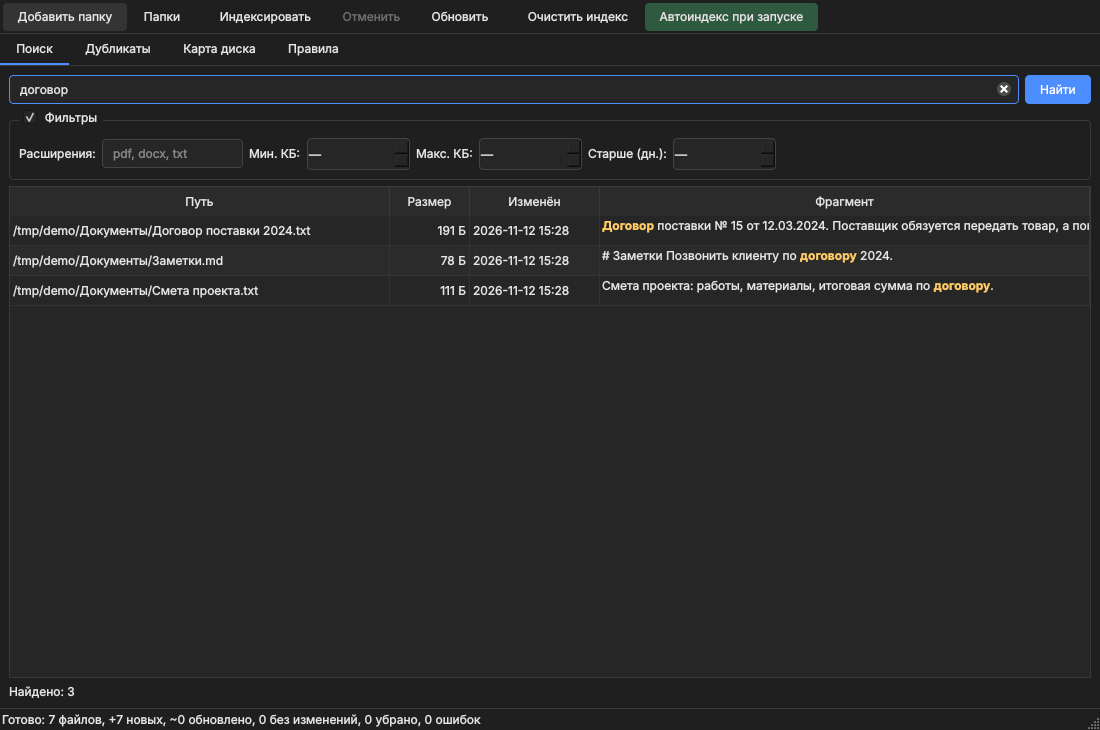
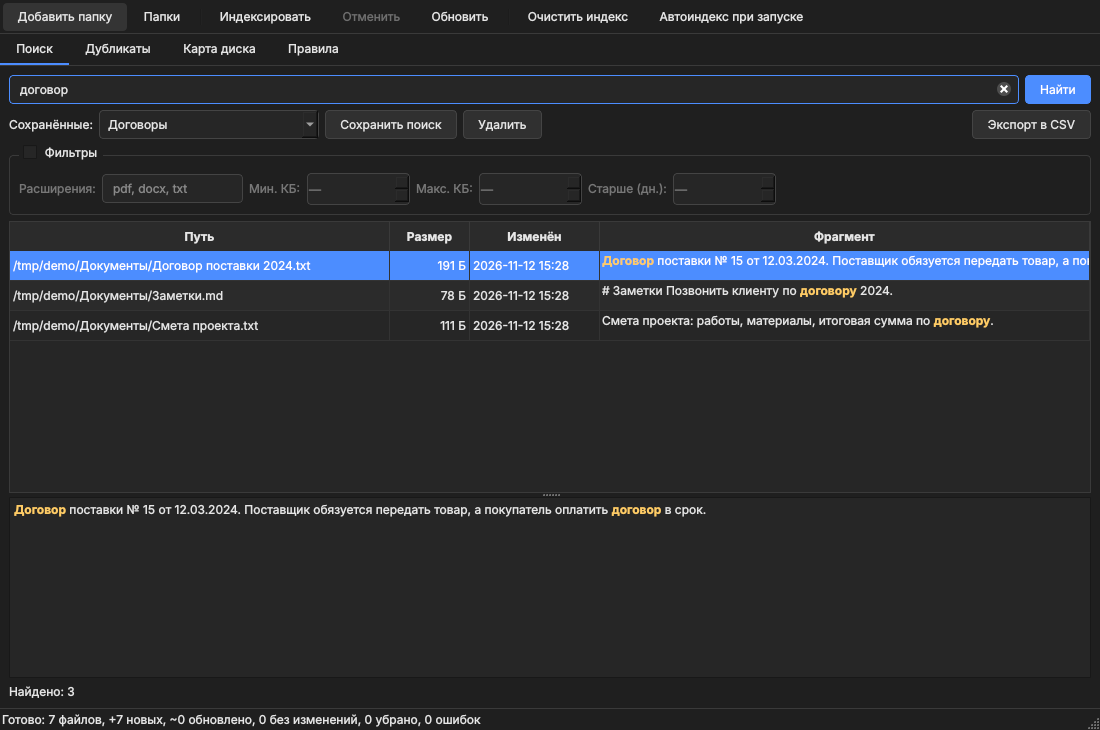
Предпросмотр, сохранённые поиски, экспорт в CSV

diff --git a/filepilot/ui/search_tab.py b/filepilot/ui/search_tab.py
@@ -7,13 +7,14 @@ from pathlib import Path
 from PySide6.QtCore import QRectF, Qt, QTimer
 from PySide6.QtGui import QAbstractTextDocumentLayout, QGuiApplication, QTextDocument
 from PySide6.QtWidgets import (
-    QAbstractItemView, QApplication, QCheckBox, QGroupBox, QHBoxLayout, QHeaderView, QLabel, QLineEdit, QMenu,
+    QAbstractItemView, QApplication, QCheckBox, QComboBox, QFileDialog, QGroupBox, QInputDialog, QMessageBox, QSplitter, QTextBrowser, QHBoxLayout, QHeaderView, QLabel, QLineEdit, QMenu,
     QPushButton, QSpinBox, QStyle, QStyledItemDelegate, QStyleOptionViewItem, QTableWidget, QTableWidgetItem,
     QVBoxLayout, QWidget,
 )
 
 from ..config import format_time, human_size
-from ..search import HL_END, HL_START, Filters, parse_exts, search
+from ..search import HL_END, HL_START, Filters, export_csv, get_content, mark_matches, parse_exts, search
+from ..settings import save_settings
 from .theme import HIGHLIGHT, open_path, reveal_in_folder
 
 
@@ -22,6 +23,15 @@ def snippet_to_html(text: str, color: str) -> str:
     safe = html.escape(text or "", quote=False).replace("\n", " ")
     safe = safe.replace(HL_START, f'<b style="color:{HIGHLIGHT}">').replace(HL_END, "</b>")
     return f'<span style="color:{color}">{safe}</span>'
+
+
+def preview_to_html(text: str, query: str) -> tuple[str, int]:
+    """Полный текст файла с подсветкой. Всё экранируется, подсветка — только по нашим маркерам."""
+    marked, n = mark_matches(text, query)
+    safe = html.escape(marked, quote=False)
+    safe = safe.replace(HL_START, f'<a name="m"></a><b style="color:{HIGHLIGHT}">', 1) if n else safe
+    safe = safe.replace(HL_START, f'<b style="color:{HIGHLIGHT}">').replace(HL_END, "</b>")
+    return f'<div style="white-space:pre-wrap">{safe}</div>', n
 
 
 class SnippetDelegate(QStyledItemDelegate):
@@ -61,6 +71,20 @@ class SearchTab(QWidget):
         row.addWidget(self.btn)
         lay.addLayout(row)
 
+        saved = QHBoxLayout()
+        self.saved = QComboBox()
+        self.saved.setMinimumWidth(220)
+        self.btn_save = QPushButton("Сохранить поиск")
+        self.btn_del = QPushButton("Удалить")
+        self.btn_csv = QPushButton("Экспорт в CSV")
+        saved.addWidget(QLabel("Сохранённые:"))
+        saved.addWidget(self.saved)
+        saved.addWidget(self.btn_save)
+        saved.addWidget(self.btn_del)
+        saved.addStretch(1)
+        saved.addWidget(self.btn_csv)
+        lay.addLayout(saved)
+
         self.filters_box = QGroupBox("Фильтры")
         self.filters_box.setCheckable(True)
         self.filters_box.setChecked(settings.filters_enabled)
@@ -91,7 +115,16 @@ class SearchTab(QWidget):
         self.table.setColumnWidth(1, 80)
         self.table.setColumnWidth(2, 130)
         self.table.setContextMenuPolicy(Qt.ContextMenuPolicy.CustomContextMenu)
-        lay.addWidget(self.table, 1)
+        self.preview = QTextBrowser()
+        self.preview.setOpenLinks(False)
+        self.preview.setPlaceholderText("Выберите файл в списке, чтобы увидеть его текст из индекса.")
+        split = QSplitter(Qt.Orientation.Vertical)
+        split.addWidget(self.table)
+        split.addWidget(self.preview)
+        split.setStretchFactor(0, 3)
+        split.setStretchFactor(1, 2)
+        lay.addWidget(split, 1)
+        self._results: list[dict] = []
         self.info = QLabel("Добавьте папки и нажмите «Индексировать», затем введите запрос.")
         lay.addWidget(self.info)
 
@@ -107,6 +140,12 @@ class SearchTab(QWidget):
         self.filters_box.toggled.connect(self._on_filters_toggled)
         self.table.doubleClicked.connect(lambda *_: self.open_selected())
         self.table.customContextMenuRequested.connect(self._menu)
+        self.table.itemSelectionChanged.connect(self.update_preview)
+        self.btn_save.clicked.connect(self.save_current)
+        self.btn_del.clicked.connect(self.delete_saved)
+        self.btn_csv.clicked.connect(self.export_results)
+        self.saved.activated.connect(self.load_saved)
+        self.refresh_saved()
 
     @staticmethod
     def _spin(special: str) -> QSpinBox:
@@ -129,6 +168,8 @@ class SearchTab(QWidget):
     def run_search(self) -> None:
         self._timer.stop()
         res = search(self.query.text(), self.current_filters())
+        self._results = res
+        self.preview.clear()
         self.table.setRowCount(len(res))
         for r, item in enumerate(res):
             path_item = QTableWidgetItem(item["path"])
@@ -164,3 +205,78 @@ class SearchTab(QWidget):
         m.addAction("Показать в папке", lambda: reveal_in_folder(p))
         m.addAction("Копировать путь", lambda: QGuiApplication.clipboard().setText(p))
         m.exec(self.table.viewport().mapToGlobal(pos))
+
+    # --- предпросмотр -------------------------------------------------------
+    def update_preview(self) -> None:
+        p = self.selected_path()
+        if not p:
+            self.preview.clear()
+            return
+        text = get_content(p)
+        if text is None:
+            self.preview.setPlainText("Файла нет в индексе.")
+        elif not text.strip():
+            self.preview.setPlainText("Для этого файла нет текста (картинка, архив, пустой файл и т. п.).")
+        else:
+            body, n = preview_to_html(text, self.query.text())
+            self.preview.setHtml(body)
+            if n:
+                self.preview.scrollToAnchor("m")
+
+    # --- сохранённые поиски -------------------------------------------------
+    def refresh_saved(self, select: str | None = None) -> None:
+        self.saved.blockSignals(True)
+        self.saved.clear()
+        self.saved.addItem("— выбрать —", None)
+        for e in self.settings.saved_searches:
+            self.saved.addItem(e["name"], e["name"])
+        if select:
+            self.saved.setCurrentIndex(max(0, self.saved.findData(select)))
+        self.saved.blockSignals(False)
+
+    def save_current(self) -> None:
+        q = self.query.text().strip()
+        if not q and not self.current_filters().active():
+            self.info.setText("Нечего сохранять: введите запрос или задайте фильтры.")
+            return
+        name, ok = QInputDialog.getText(self, "Сохранить поиск", "Название:", text=q[:40])
+        name = name.strip()
+        if not ok or not name:
+            return
+        self.settings.save_search({"name": name, "query": q, "exts": self.ext.text(), "min_kb": self.min_kb.value(),
+                                   "max_kb": self.max_kb.value(), "older": self.older.value(),
+                                   "filters": self.filters_box.isChecked()})
+        save_settings(self.settings)
+        self.refresh_saved(name)
+
+    def load_saved(self, _idx: int = 0) -> None:
+        name = self.saved.currentData()
+        entry = next((e for e in self.settings.saved_searches if e.get("name") == name), None)
+        if not entry:
+            return
+        self.ext.setText(str(entry.get("exts", "")))
+        self.min_kb.setValue(int(entry.get("min_kb", 0) or 0))
+        self.max_kb.setValue(int(entry.get("max_kb", 0) or 0))
+        self.older.setValue(int(entry.get("older", 0) or 0))
+        self.filters_box.setChecked(bool(entry.get("filters", False)))
+        self.query.setText(str(entry.get("query", "")))
+        self.run_search()
+
+    def delete_saved(self) -> None:
+        name = self.saved.currentData()
+        if not name:
+            return
+        if QMessageBox.question(self, "Удалить поиск", f"Удалить сохранённый поиск «{name}»?") == QMessageBox.StandardButton.Yes:
+            self.settings.delete_search(name)
+            save_settings(self.settings)
+            self.refresh_saved()
+
+    # --- экспорт ------------------------------------------------------------
+    def export_results(self) -> None:
+        if not self._results:
+            self.info.setText("Нет результатов для экспорта.")
+            return
+        dest, _ = QFileDialog.getSaveFileName(self, "Экспорт результатов", "filepilot-results.csv", "CSV (*.csv)")
+        if dest:
+            n = export_csv(self._results, dest)
+            self.info.setText(f"Сохранено строк: {n} → {dest}")

diff --git a/filepilot/search.py b/filepilot/search.py
@@ -100,3 +100,42 @@ def search(query: str, filters: Filters | None = None, limit: int = 300) -> list
         "WHERE (f.name LIKE ? ESCAPE '\\' OR f.content LIKE ? ESCAPE '\\')" + _where(f, params) + " ORDER BY f.mtime DESC LIMIT ?"
     )
     return [dict(r) for r in conn.execute(sql, [like, like] + params + [limit])]
+
+
+PREVIEW_LIMIT = 300_000
+
+
+def get_content(path: str) -> str | None:
+    """Текст файла из индекса (None, если файла нет в индексе)."""
+    row = get_db().execute("SELECT substr(content, 1, ?) AS c FROM files WHERE path = ?", (PREVIEW_LIMIT, path)).fetchone()
+    return None if row is None else (row["c"] or "")
+
+
+def query_words(query: str) -> list[str]:
+    words: list[str] = []
+    for tok in re.findall(r'"[^"]+"|\S+', query or ""):
+        if tok in _OPS:
+            continue
+        words += [w for w in re.findall(r"\w+", tok) if w.upper() not in _OPS]
+    return sorted(set(words), key=len, reverse=True)
+
+
+def mark_matches(text: str, query: str) -> tuple[str, int]:
+    """Оборачивает найденные слова (с продолжением, как префиксный поиск) в маркеры подсветки. Возвращает (текст, число совпадений)."""
+    words = query_words(query)
+    if not words or not text:
+        return text, 0
+    rx = re.compile("(?:%s)\\w*" % "|".join(re.escape(w) for w in words), re.IGNORECASE)
+    return rx.subn(lambda m: HL_START + m.group(0) + HL_END, text)
+
+
+def export_csv(rows: list[dict], dest: str) -> int:
+    """Сохраняет результаты в CSV (UTF-8 с BOM, разделитель «;» — открывается в Excel)."""
+    import csv
+    from .config import format_time
+    with open(dest, "w", encoding="utf-8-sig", newline="") as fh:
+        w = csv.writer(fh, delimiter=";")
+        w.writerow(["Путь", "Имя", "Размер, байт", "Изменён"])
+        for r in rows:
+            w.writerow([r["path"], r["name"], r["size"], format_time(r["mtime"])])
+    return len(rows)

diff --git a/tests/test_core.py b/tests/test_core.py
@@ -170,3 +170,37 @@ def test_cli_roundtrip(tmp_path, capsys):
     assert cli.main(["--json", "search", "договор"]) == 0
     out = capsys.readouterr().out
     assert "dogovor.txt" in out
+
+
+def test_preview_content_and_marks(tmp_path):
+    make_tree(tmp_path / "root")
+    indexer.index_folders([str(tmp_path / "root")])
+    path = str(tmp_path / "root" / "docs" / "dogovor.txt")
+    text = search.get_content(path)
+    assert "Договор поставки" in text
+    assert search.get_content(str(tmp_path / "нет.txt")) is None
+    marked, n = search.mark_matches(text, "договор AND 2024")
+    assert n == 2 and marked.count(search.HL_START) == 2
+    assert search.mark_matches(text, "")[1] == 0
+
+
+def test_export_csv(tmp_path):
+    make_tree(tmp_path / "root")
+    indexer.index_folders([str(tmp_path / "root")])
+    res = search.search("hello")
+    dest = tmp_path / "out.csv"
+    assert search.export_csv(res, str(dest)) == len(res) == 2
+    lines = dest.read_text(encoding="utf-8-sig").splitlines()
+    assert lines[0].startswith("Путь;Имя") and len(lines) == 3
+
+
+def test_saved_searches_roundtrip():
+    s = Settings()
+    s.save_search({"name": "а", "query": "x"})
+    s.save_search({"name": "а", "query": "y"})  # перезапись по имени
+    s.save_search({"name": "б", "query": "z"})
+    save_settings(s)
+    s2 = load_settings()
+    assert [e["query"] for e in s2.saved_searches] == ["y", "z"]
+    s2.delete_search("а")
+    assert [e["name"] for e in s2.saved_searches] == ["б"]

diff --git a/filepilot/settings.py b/filepilot/settings.py
@@ -13,6 +13,13 @@ class Settings:
     folders: list[str] = field(default_factory=list)
     auto_index: bool = False
     filters_enabled: bool = False
+    saved_searches: list[dict] = field(default_factory=list)  # {name, query, exts, min_kb, max_kb, older}
+
+    def save_search(self, entry: dict) -> None:
+        self.saved_searches = [e for e in self.saved_searches if e.get("name") != entry["name"]] + [entry]
+
+    def delete_search(self, name: str) -> None:
+        self.saved_searches = [e for e in self.saved_searches if e.get("name") != name]
 
     def add_folder(self, folder: str) -> bool:
         folder = os.path.normpath(folder)
@@ -42,6 +49,7 @@ def load_settings() -> Settings:
         folders=[str(f) for f in folders] if isinstance(folders, list) else [],
         auto_index=bool(data.get("auto_index", False)),
         filters_enabled=bool(data.get("filters_enabled", False)),
+        saved_searches=[e for e in (data.get("saved_searches") or []) if isinstance(e, dict) and e.get("name")],
     )
 
 

diff --git a/tests/test_ui.py b/tests/test_ui.py
@@ -54,6 +54,13 @@ def test_full_flow(app, tmp_path):
     w.search_tab.query.setText("договор")
     w.search_tab.run_search()
     assert w.search_tab.table.rowCount() == 1
+    w.search_tab.table.selectRow(0)
+    assert "Договор поставки" in w.search_tab.preview.toPlainText()
+    w.search_tab.settings.save_search({"name": "т", "query": "договор", "exts": "txt", "min_kb": 0, "max_kb": 0, "older": 0, "filters": True})
+    w.search_tab.refresh_saved("т")
+    w.search_tab.query.setText("")
+    w.search_tab.load_saved()
+    assert w.search_tab.query.text() == "договор" and w.search_tab.ext.text() == "txt"
     w.dupes_tab.start()
     assert wait_until(lambda: w.dupes_tab._task is None)
     assert w.dupes_tab.tree.topLevelItemCount() == 1

diff --git a/README.md b/README.md
@@ -33,7 +33,7 @@ python -m filepilot --help
 
 ## Возможности
 
-- **Поиск** по содержимому (txt, код, pdf, docx, xlsx, pptx, odt и др.) с фильтрами по расширению, размеру и возрасту файлов.
+- **Поиск** по содержимому (txt, код, pdf, docx, xlsx, pptx, odt и др.) с фильтрами по расширению, размеру и возрасту файлов, предпросмотром с подсветкой, сохранёнными поисками и экспортом в CSV.
 - **Дубликаты**: сравнение по содержимому, удаление только в корзину, в каждой группе остаётся копия.
 - **Карта диска**: крупные файлы, папки и типы файлов.
 - **Правила**: перенос, архивация в zip или отправка в корзину с пробным запуском. Окончательного удаления нет.

diff --git a/CHANGELOG.md b/CHANGELOG.md
@@ -1,5 +1,9 @@
 # История изменений
 
+## Не выпущено
+- Поиск: панель предпросмотра с подсветкой найденных слов (текст берётся из индекса).
+- Поиск: сохранённые поиски (запрос и фильтры) и экспорт результатов в CSV для Excel.
+
 ## 0.2.0
 Программа написана заново.
 
